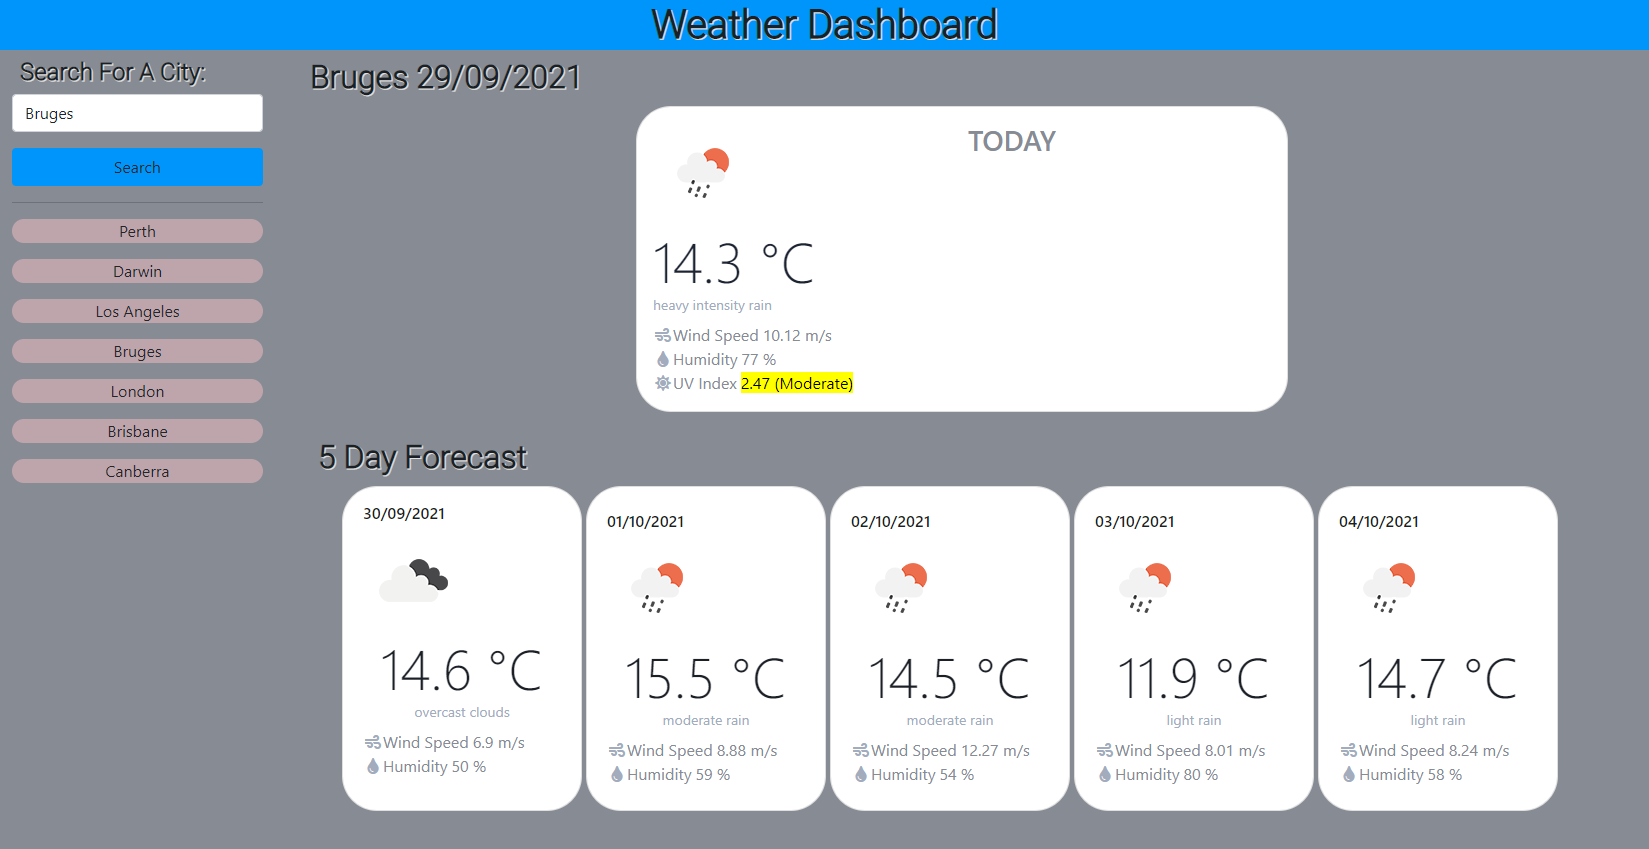
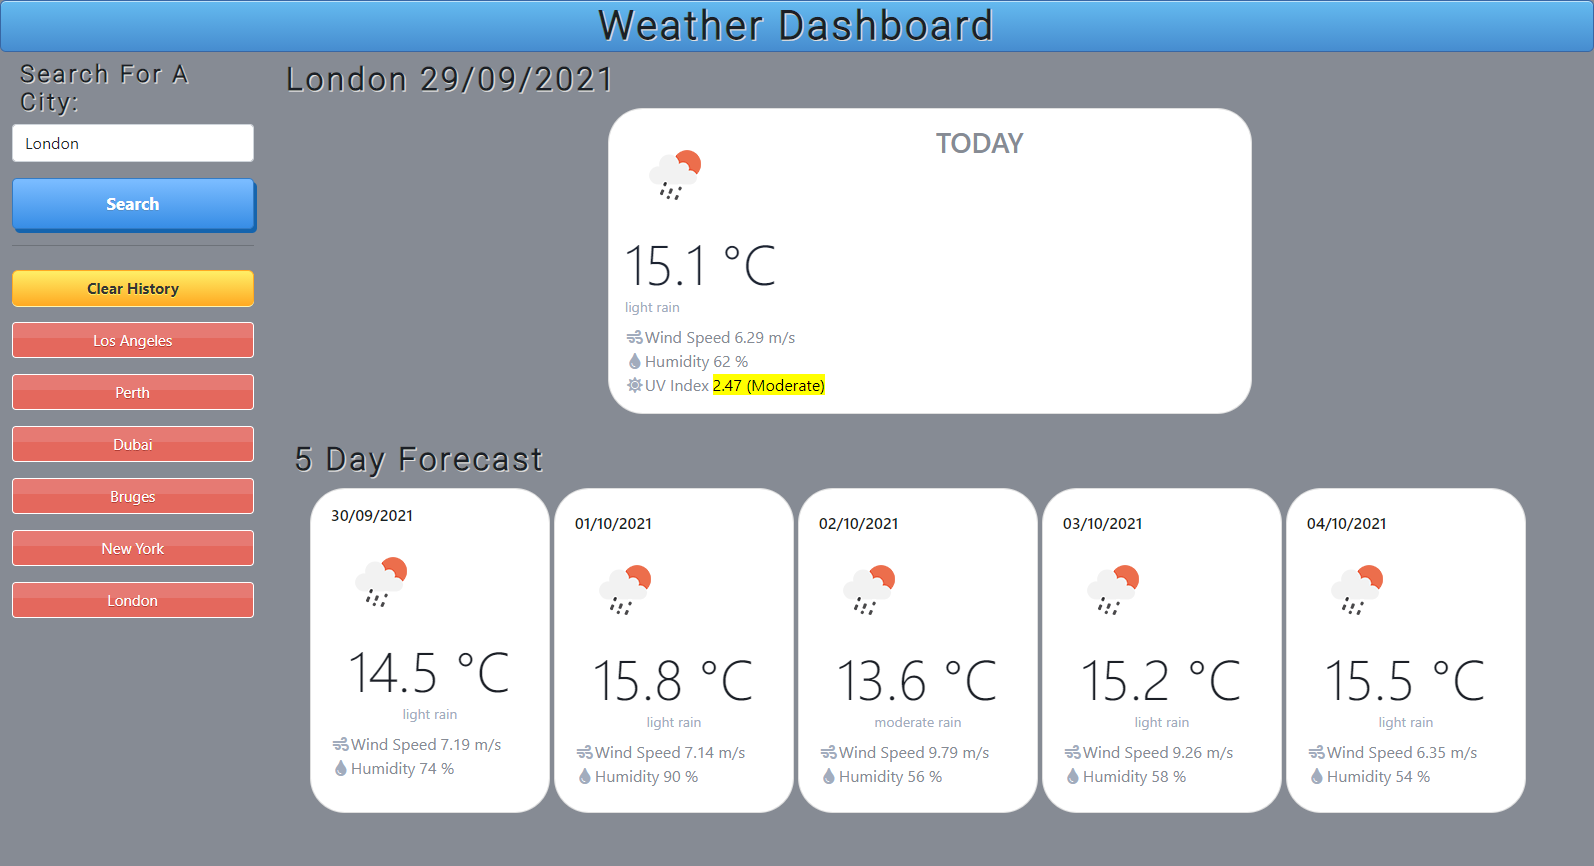
Styling complete

diff --git a/assets/css/style.css b/assets/css/style.css
@@ -16,14 +16,28 @@ section {
 
 li {
     list-style-type: none;
-    background-color: var(--list);
     text-align: center;
     margin-top: 1rem;
-    border-radius: 15px;
+    box-shadow:inset 0px 39px 0px -24px #e67a73;
+	background-color:#e4685d;
+	border-radius:4px;
+	border:1px solid #ffffff;
+	display:inline-block;
+	color:#ffffff;
+	font-size:15px;
+	padding:6px 15px;
+	text-shadow:0px 1px 0px #b23e35;
+    width: 100%;
+    cursor: pointer;
+	text-transform: capitalize;
 }
 
-li:hover {
-    cursor: pointer;
+#input-city {
+	text-transform: capitalize;
+}
+
+#current-city {
+	text-transform: capitalize;
 }
 
 .card {
@@ -49,6 +63,7 @@ h5 {
     font-family: 'Roboto', sans-serif;
     font-weight: bold;
     text-shadow: #e0e0e0 1px 1px 0;
+    letter-spacing: 3px;
 }
 
 h3 {
@@ -60,7 +75,10 @@ h6 {
 }
 
 .banner {
-    background-color: #0095FA;
+    box-shadow:inset 0px 1px 0px 0px #bee2f9;
+	background:linear-gradient(to bottom, #63b8ee 5%, #468ccf 100%);
+	background-color:#63b8ee;
+	border:1px solid #3866a3;
 }
 
 .submitBtn {

diff --git a/assets/js/script.js b/assets/js/script.js
@@ -228,3 +228,5 @@ function getWeather(city) {
         
     })
 }
+
+// Capitalize city names?
